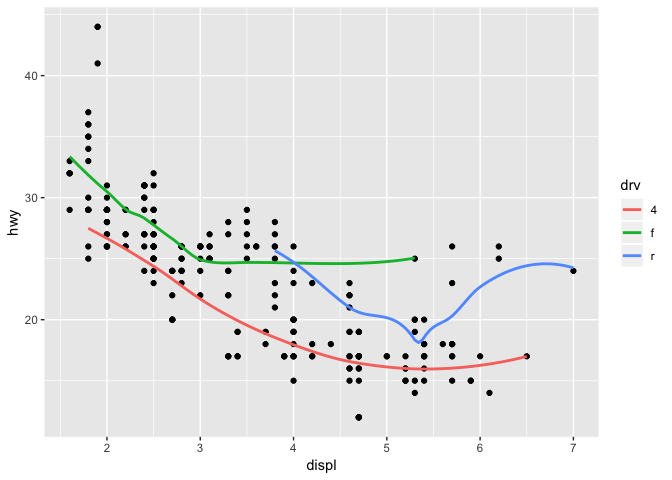
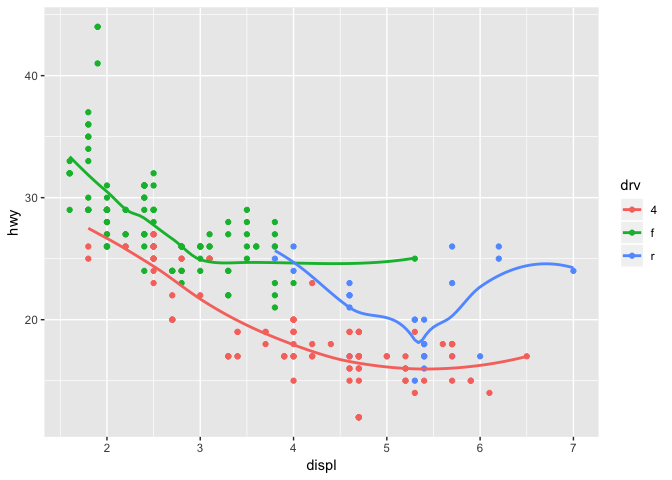
Homework_2

diff --git a/index.md b/index.md
@@ -34,7 +34,7 @@ ggplot(data = mpg) +
 
 ![](index_files/figure-markdown_github/unnamed-chunk-3-1.png) What are the advantages to using faceting instead of the colour aesthetic? What are the disadvantages? How might the balance change if you had a larger dataset?
 
-Advantages to using faceting: each class has own plot, so it is easy to understand the hwy/displ dependence for each class.
+Advantages to using faceting: each class has own plot, so it is easy to understand the hwy/displ dependence for each class.All population do not overlap. In case we have not a little data, empty plots could occur.
 
 Disadvantages to using faceting: we use separate plot for each class, so it could be difficult to analyze the hwy/displ dependence among classes. Colour aesthetic provide us one plot but it is difficult to understand hwy/displ dependence for each class.
 
@@ -74,7 +74,7 @@ ggplot(data = mpg) +
 
 ``` r
 ggplot(data = mpg) + 
-  geom_point(mapping = aes(x = displ, y = hwy)) +
+  geom_point(mapping = aes(x = displ, y = hwy, colour = drv )) +
   geom_smooth(mapping = aes(x = displ, y = hwy, group = drv, colour = drv), se = FALSE)
 ```
 
@@ -103,16 +103,25 @@ ggplot(data = mpg) +
 ![](index_files/figure-markdown_github/unnamed-chunk-5-5.png)
 
 ``` r
-ggplot(data = mpg) + 
-  geom_point(mapping = aes(x = displ, y = hwy, group = drv, colour = drv, shape = drv), size = 0.8) +
-   scale_shape_manual(values = c(6:8))
+ggplot(data = mpg, mapping = aes(x = displ, y = hwy)) + 
+  geom_point(size = 4, colour = "white") +
+  geom_point(aes(colour = drv))
 ```
 
 ![](index_files/figure-markdown_github/unnamed-chunk-5-6.png)
 
+``` r
+ggplot(data = mpg, mapping = aes(x = displ, y = hwy, fill = drv)) + 
+  geom_point(shape = 21, stroke = 1.5, colour = "white") 
+```
+
+![](index_files/figure-markdown_github/unnamed-chunk-5-7.png)
+
 -   Compare and contrast geom\_jitter() with geom\_count().
 
-Geom\_jitter() adds a small amount of random variation to the location of each point, and is a useful way of handling overplotting caused by discreteness in smaller datasets. Geom\_count() maps the count to point area. It useful when you have discrete data and overplotting.
+Geom\_jitter() adds a small amount of random variation to the location of each point, and is a useful way of handling overplotting caused by discreteness in smaller datasets.
+
+Geom\_count() maps the count to point area. It useful when you have discrete data and overplotting.
 
 ``` r
 ggplot(data = mpg) + 
@@ -130,7 +139,7 @@ ggplot(data = mpg) +
 
 -   What does the plot below tell you about the relationship between city and highway mpg (fuel consumption)? Why is coord\_fixed() important? What does geom\_abline() do?
 
-The plot demonstartes that consumption of petrol on highway is less than in city.
+The plot demonstartes that consumption of petrol on highway is less than in city. Auto saab pikkema distantsi syita maanteel.
 
 Coord\_fixed() is important because it represents the number of units on the y-axis equivalent to one unit on the x-axis.
 
@@ -147,7 +156,7 @@ ggplot(data = mpg, mapping = aes(x = cty, y = hwy)) +
 
 -   What is the default geom associated with stat\_summary()?
 
-Geom = "pointrange" that represents a vertical interval defined by x, ymin and ymax. Each case draws a single graphical object.
+Geom = "geom\_pointrange" that represents a vertical interval defined by x, ymin and ymax. Each case draws a single graphical object.
 
 ``` r
 ggplot(data = diamonds) + 
@@ -180,7 +189,7 @@ ggplot(data = diamonds)+
 
 Geom\_col() is a type of chart taht uses stat\_identity(): it leaves the data as is.
 
-Geom\_bar() makes the height of the bar proportional to the number of cases in each group. If you want the heights of the bars to represent values in the data, use geom\_col() instead. geom\_bar() uses stat\_count() by default: it counts the number of cases at each x position. geom\_col() uses stat\_identity(): it leaves the data as is.
+Geom\_bar() makes the height of the bar proportional to the number of cases in each group. If you want the heights of the bars to represent values in the data, use geom\_col() instead. geom\_bar() uses stat\_count() by default: it counts the number of cases at each x position.
 
 -   What variables does compute stat\_smooth ? What parameters control its behaviour?
 
@@ -213,7 +222,7 @@ ggplot(data = diamonds) +
 
 ``` r
 ggplot(data = diamonds) + 
-  geom_bar(mapping = aes(x = cut, y = ..prop..,  fill = clarity, group = 1))
+  geom_bar(mapping = aes(x = cut, y = ..prop..,  fill = clarity, group = clarity))
 ```
 
 ![](index_files/figure-markdown_github/unnamed-chunk-11-2.png)
